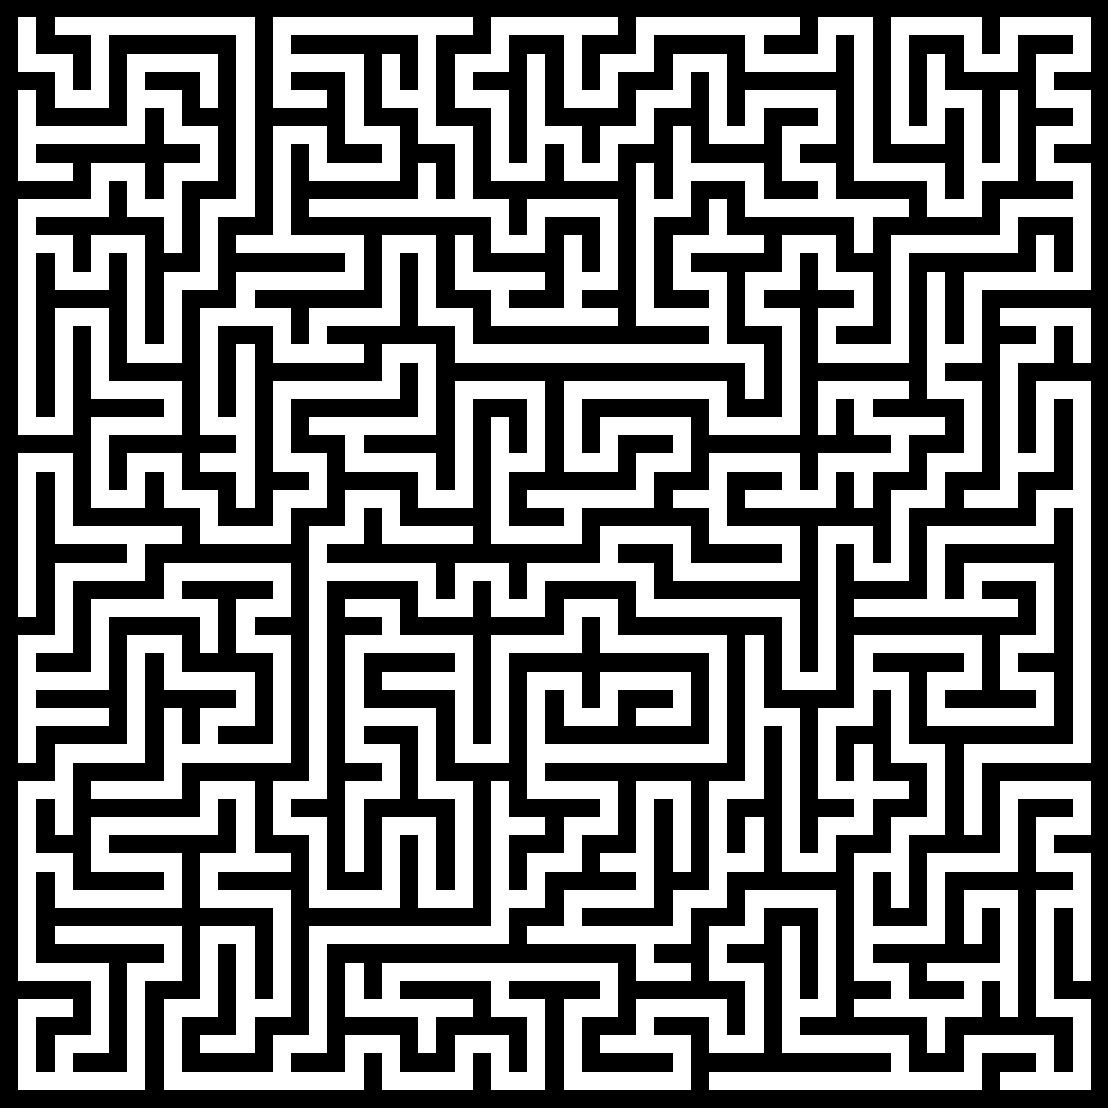
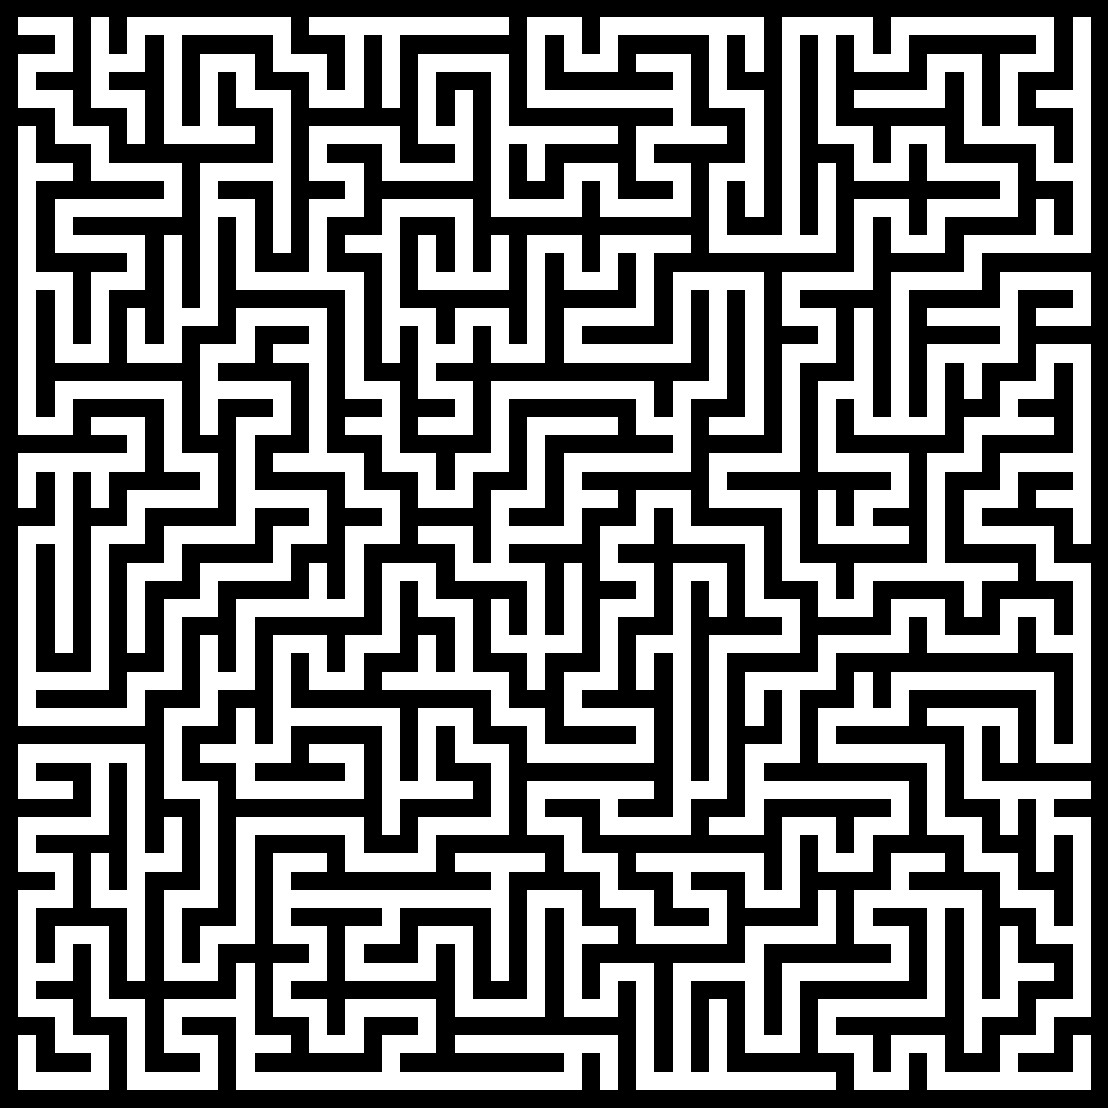
Cleaning up Rust

Changed region(s): [[0.0, 0.0, 0.9819, 0.9819], [0.0, 0.5523, 0.0614, 0.6137], [0.0, 0.7671, 0.0307, 0.7978]]

diff --git a/rustmaz/src/main.rs b/rustmaz/src/main.rs
@@ -26,11 +26,11 @@ impl Wall {
 #[derive(Clone, PartialEq)]
 struct Cell {
     walls: HashSet<Wall>,
-    coords: (u32, u32),
+    coords: (usize, usize),
 }
 
 impl Cell {
-    fn new(coords: (u32, u32)) -> Self {
+    fn new(coords: (usize, usize)) -> Self {
         let walls = [Wall::Top, Wall::Bottom, Wall::Left, Wall::Right];
         Cell { walls: HashSet::from(walls), coords }
     }
@@ -68,10 +68,10 @@ impl Cell {
 
 struct Maz {
     value: Vec<u8>,
-    size: u32,
-    in_maze_list: Vec<(u32, u32)>,
+    size: usize,
+    in_maze_list: Vec<(usize, usize)>,
     cells: Vec<Cell>,
-    to_add: Vec<(u32, u32)>
+    to_add: Vec<(usize, usize)>
 
 }
 
@@ -90,13 +90,13 @@ impl std::ops::Deref for Maz {
 }
 
 impl Maz {
-    fn new(size: u32) -> Self {
-        let mut i: u32 = 0;
-        let total_size: u32 = size * size;
+    fn new(size: usize) -> Self {
+        let mut i: usize = 0;
+        let total_size: usize = size * size;
         let mut val_holder: Vec<u8> = vec![];
         let mut cell_holder: Vec<Cell> = vec![];
-        let mut curr_x: u32 = 0;
-        let mut curr_y: u32 = 0;
+        let mut curr_x: usize = 0;
+        let mut curr_y: usize = 0;
         while i < total_size {
             val_holder.push(0);
             cell_holder.push(Cell::new((curr_x, curr_y)));
@@ -110,61 +110,9 @@ impl Maz {
         }
         Maz { value: val_holder, size, in_maze_list: vec![], cells: cell_holder, to_add: vec![]}
     }
-    fn get_at(&self, x: u32, y: u32) -> u8 {
-        self.value[((&self.size * x) + y) as usize]
-    }
-    fn get_cell_at(&self, x: u32, y: u32) -> usize {
-        for cell in 0..self.cells.len() {
-            if self.cells[cell].coords == (x, y) {
-                return cell
-            }
-        }
-        0
-    }
-    fn set_at(&mut self, x: u32, y: u32, value: u8) {
-        self.value[((&self.size * x) + y) as usize] = value;
-    }
-    fn open_border(&mut self, a: (u32, u32), b: (u32, u32)) {
-        let y1 = a.0 as isize;
-        let y2 = b.0 as isize;
-        let x1 = a.1 as isize;
-        let x2 = b.1 as isize;
-
-        let val1 = self.get_cell_at(a.0, a.1) as usize;
-        let sides1 = self.cells[self.get_cell_at(a.0, a.1)].to_u8();
-        let val2 = self.get_cell_at(b.0, b.1) as usize;
-        let sides2 = self.cells[self.get_cell_at(b.0, b.1)].to_u8();
-
-        if x2 - x1 == 1 {
-            self.value[val1] = to_encoded(false, sides1, Wall::Left);
-            self.value[val2] = to_encoded(false, sides2, Wall::Right);
-            //self.get_cell_at(a.0, a.1).set_wall(false, Wall::Left);
-            //self.get_cell_at(b.0, b.1).set_wall(false, Wall::Right);
-        } else if x1  - x2  == 1 {
-            self.value[val1] = to_encoded(false, sides1, Wall::Right);
-            self.value[val2] = to_encoded(false, sides2, Wall::Left);
-            //self.get_cell_at(a.0, a.1).set_wall(false, Wall::Right);
-            //self.get_cell_at(b.0, b.1).set_wall(false, Wall::Left);
-        } else if y2  - y1  == 1 {
-            self.value[val1] = to_encoded(false, sides1, Wall::Top);
-            self.value[val2] = to_encoded(false, sides2, Wall::Bottom);
-            //self.get_cell_at(a.0, a.1).set_wall(false, Wall::Top);
-            //self.get_cell_at(b.0, b.1).set_wall(false, Wall::Bottom);
-        } else if y1  - y2  == 1 {
-            self.value[val1] = to_encoded(false, sides1, Wall::Bottom);
-            self.value[val2] = to_encoded(false, sides2, Wall::Top);
-            //self.get_cell_at(a.0, a.1).set_wall(false, Wall::Bottom);
-            //self.get_cell_at(b.0, b.1).set_wall(false, Wall::Top);
-        }
-    }
     fn generate(&mut self) {
-        self.carve_from((0, 0));
-        /*for i in 1..self.value.len() {
-            self.value[i] = self.cells[self.get_cell_at(self.in_maze_list[i].0, self.in_maze_list[i].1)].to_u8();
-        }*/
-    }
-    fn carve_from(&mut self, mut coords: (u32, u32)) {
-        let mut prevlist: Vec<(u32, u32)> = vec![];
+        let mut coords= (0, 0);
+        let mut prevlist: Vec<(usize, usize)> = vec![];
         loop {
             if self.to_add.contains(&coords) {
                 self.to_add.remove(self.to_add.len() - 1);
@@ -245,17 +193,48 @@ impl Maz {
                 self.in_maze_list.push(next_coords);
                 self.open_border(coords, next_coords);
             }
-
-            /*match next_side {
-            Wall::Top => { self.carve_from((coords.0, coords.1 - 1)) },
-            Wall::Bottom => { self.carve_from((coords.0, coords.1 + 1)) },
-            Wall::Left => { self.carve_from((coords.0 - 1, coords.1)) },
-            Wall::Right => {  self.carve_from((coords.0 + 1, coords.1)) },
-            _ => panic!("TOO BIG BRO!")
-        };*/
             if self.to_add.len() <= 0 && self.in_maze_list.len() == (self.size * self.size) as usize {
                 break;
             }
+        }
+    }
+    fn get_value_at(&self, x: usize, y: usize) -> u8 {
+        self.value[((&self.size * x) + y) as usize]
+    }
+    fn set_value_at(&mut self, x: usize, y: usize, value: u8) {
+        self.value[((&self.size * x) + y) as usize] = value;
+    }
+    fn get_index_of_cell_at(&self, x: usize, y: usize) -> usize {
+        for cell in 0..self.cells.len() {
+            if self.cells[cell].coords == (x, y) {
+                return cell
+            }
+        }
+        0
+    }
+    fn open_border(&mut self, a: (usize, usize), b: (usize, usize)) {
+        let y1 = a.0 as isize;
+        let y2 = b.0 as isize;
+        let x1 = a.1 as isize;
+        let x2 = b.1 as isize;
+
+        let val1 = self.get_index_of_cell_at(a.0, a.1) as usize;
+        let sides1 = self.cells[self.get_index_of_cell_at(a.0, a.1)].to_u8();
+        let val2 = self.get_index_of_cell_at(b.0, b.1) as usize;
+        let sides2 = self.cells[self.get_index_of_cell_at(b.0, b.1)].to_u8();
+
+        if x2 - x1 == 1 {
+            self.value[val1] = to_encoded(false, sides1, Wall::Left);
+            self.value[val2] = to_encoded(false, sides2, Wall::Right);
+        } else if x1  - x2  == 1 {
+            self.value[val1] = to_encoded(false, sides1, Wall::Right);
+            self.value[val2] = to_encoded(false, sides2, Wall::Left);
+        } else if y2  - y1  == 1 {
+            self.value[val1] = to_encoded(false, sides1, Wall::Top);
+            self.value[val2] = to_encoded(false, sides2, Wall::Bottom);
+        } else if y1  - y2  == 1 {
+            self.value[val1] = to_encoded(false, sides1, Wall::Bottom);
+            self.value[val2] = to_encoded(false, sides2, Wall::Top);
         }
     }
 }
@@ -271,7 +250,7 @@ fn to_encoded(value: bool, initial: u8, side: Wall) -> u8 {
 }
 
 fn main() {
-    //let size: u32 = rand::thread_rng().gen_range(2..41);
+    //let size: usize = rand::thread_rng().gen_range(2..41);
     let size= 30;
     let mut bob = Maz::new(size);
     bob.generate();
